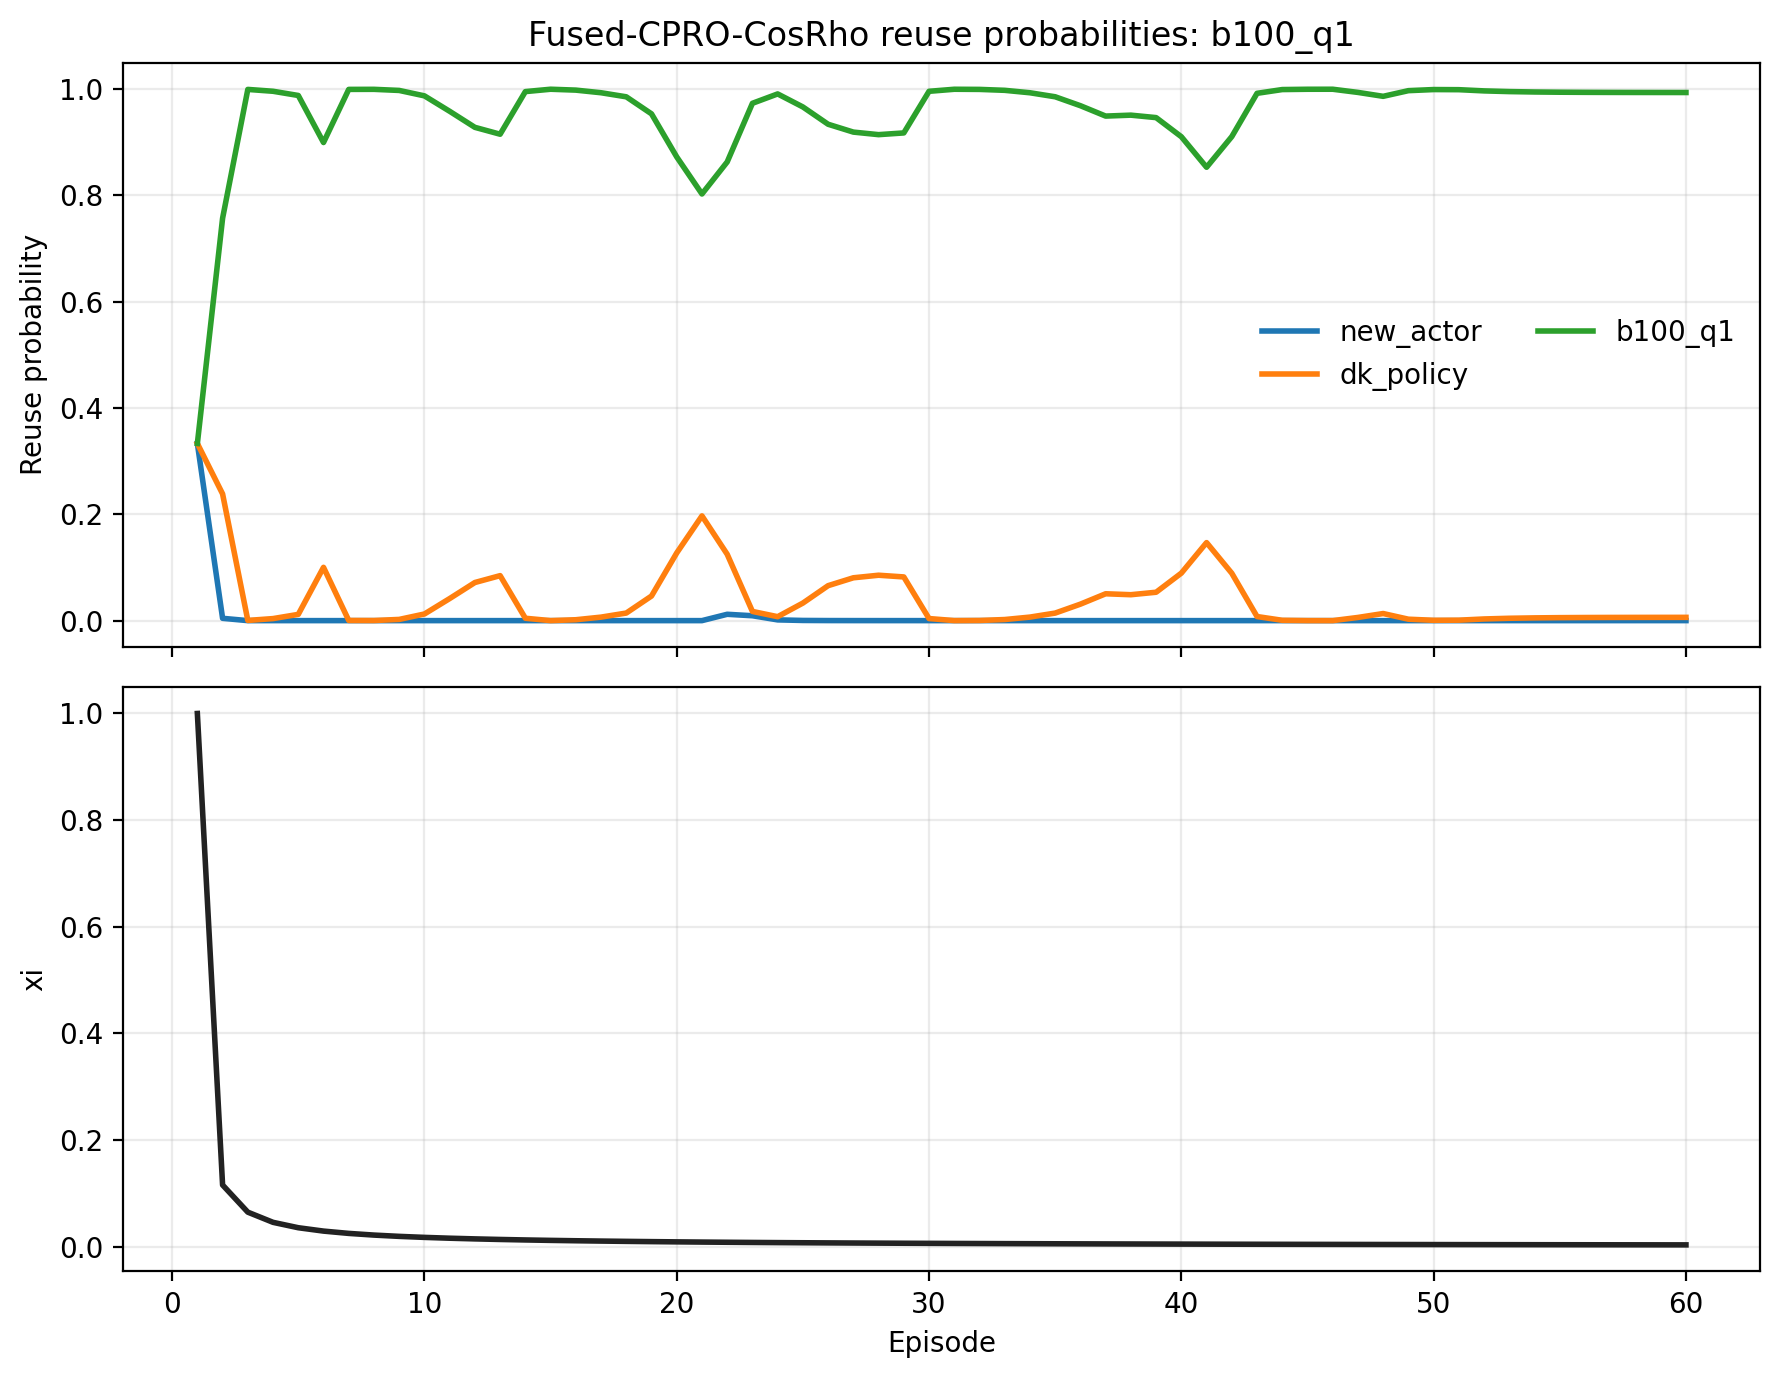
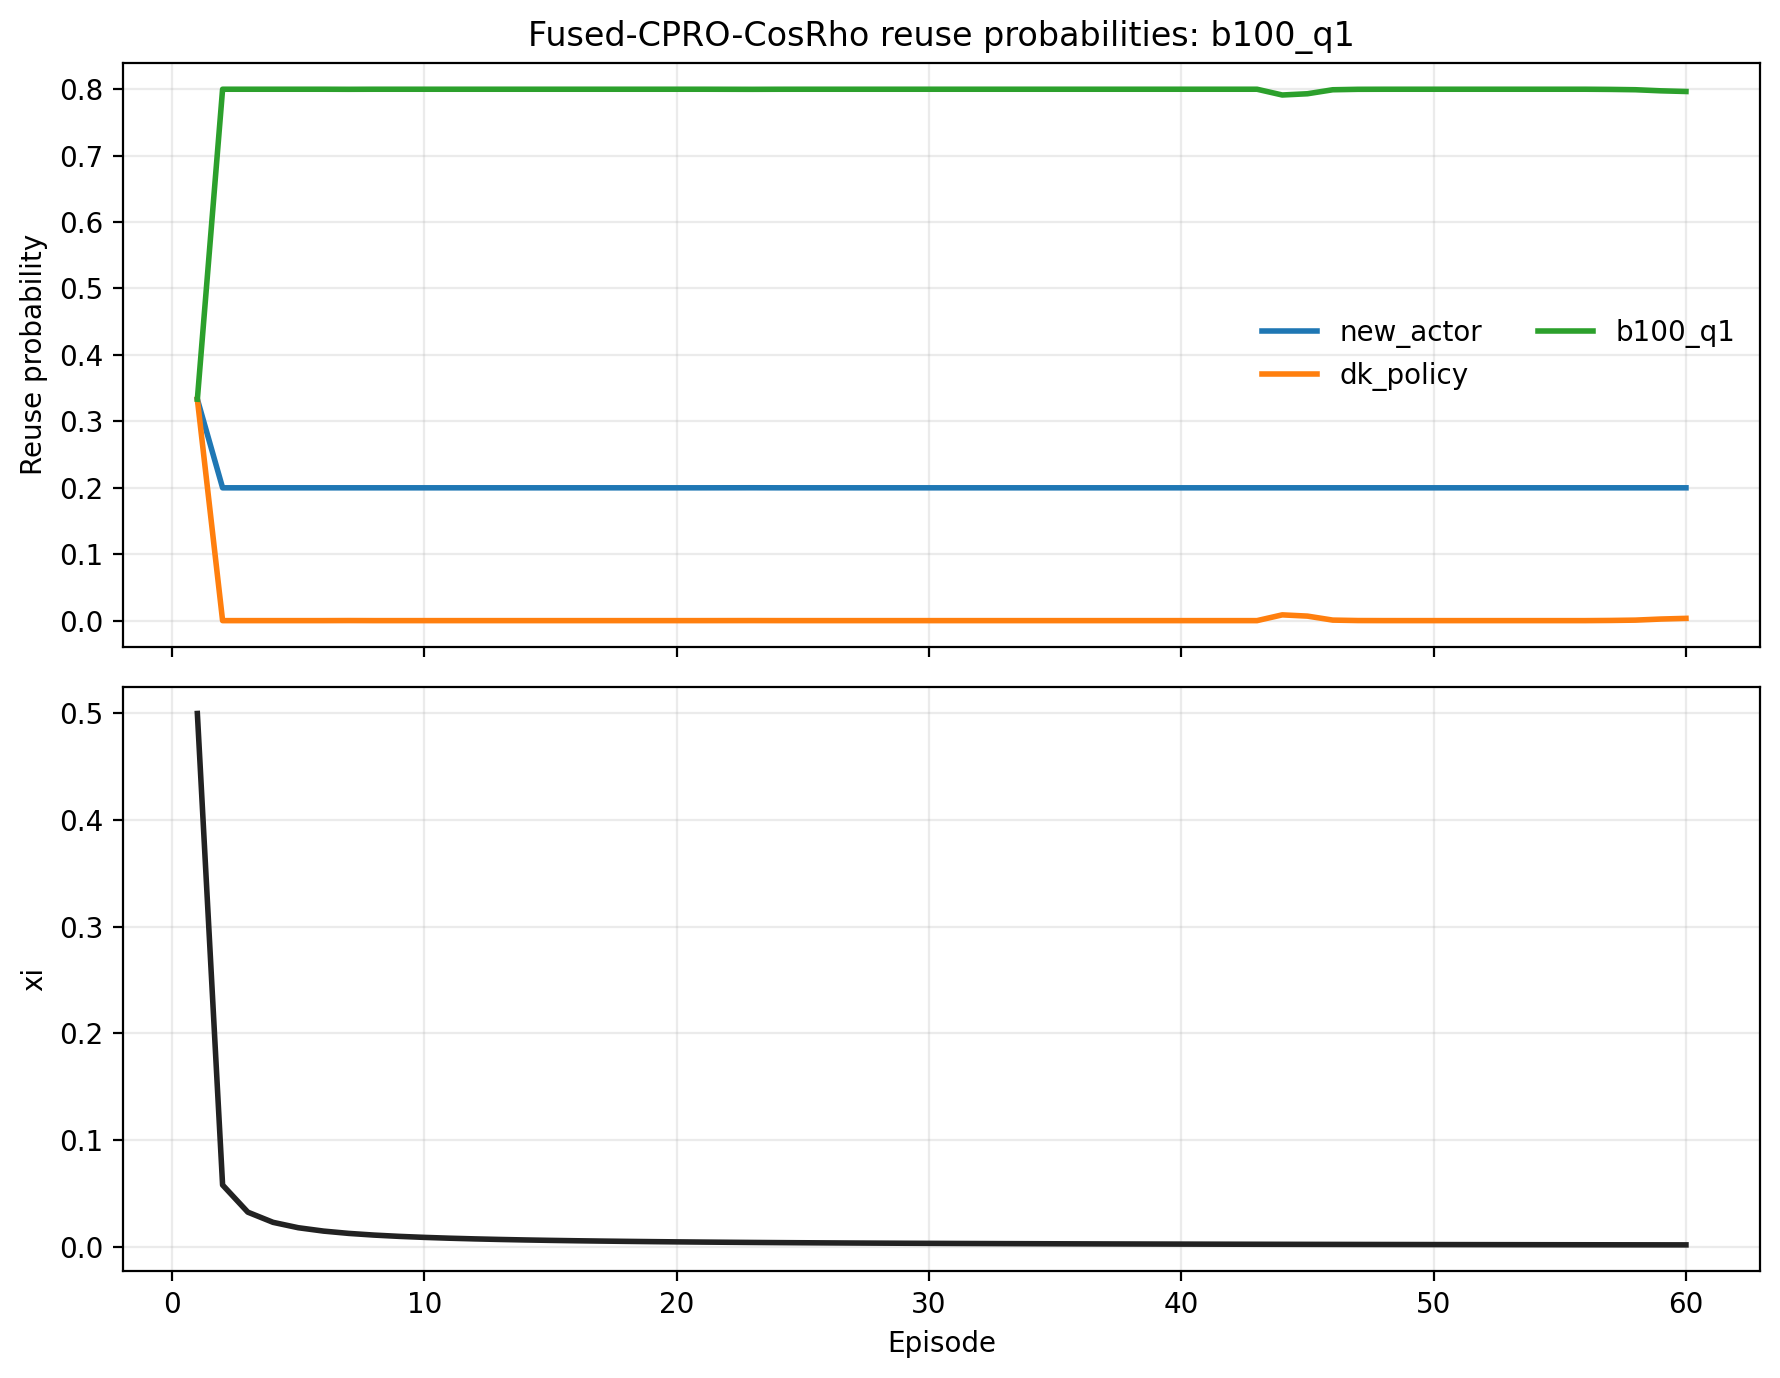
chore(mimo): update sldac seeds and refresh artifacts

diff --git a/MIMO1/run_mimo_sldac.py b/MIMO1/run_mimo_sldac.py
@@ -20,7 +20,7 @@ SLDAC_RUNS = [
 ]
 
 DEFAULT_SEED = 1
-DEFAULT_SEEDS = (0, 1, 2, 3, 4)
+DEFAULT_SEEDS = (5,6,7,8,9)
 ALGORITHM_NAME = "SLDAC"
 BASE_DIR = os.path.dirname(os.path.abspath(__file__))
 LEGACY_CHECKPOINT_PREFIX = "episode_"